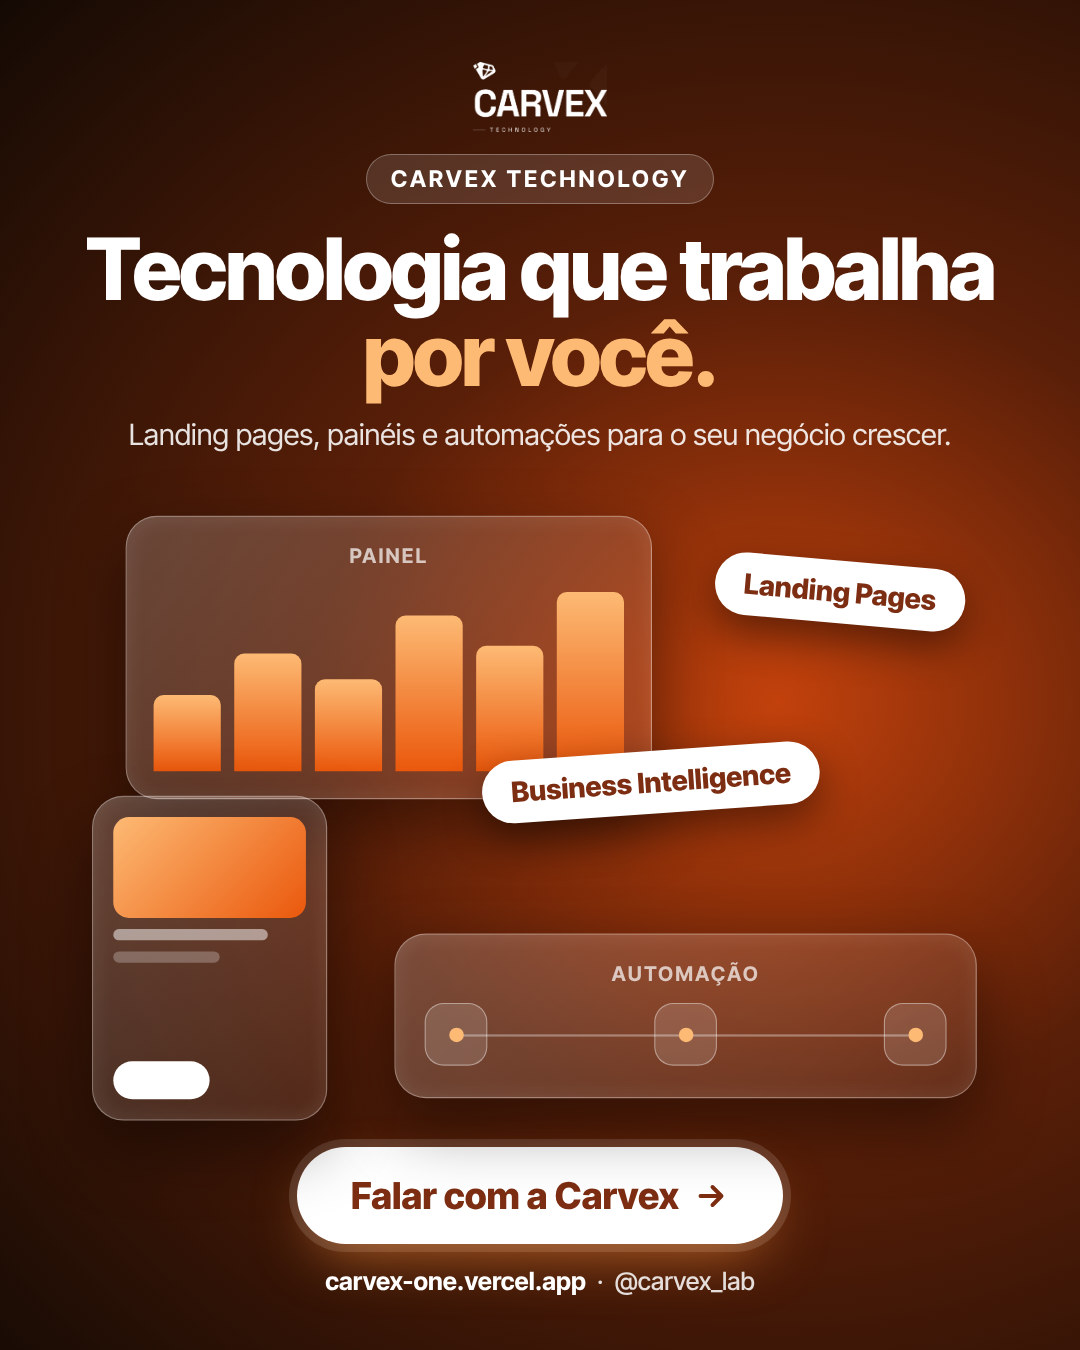
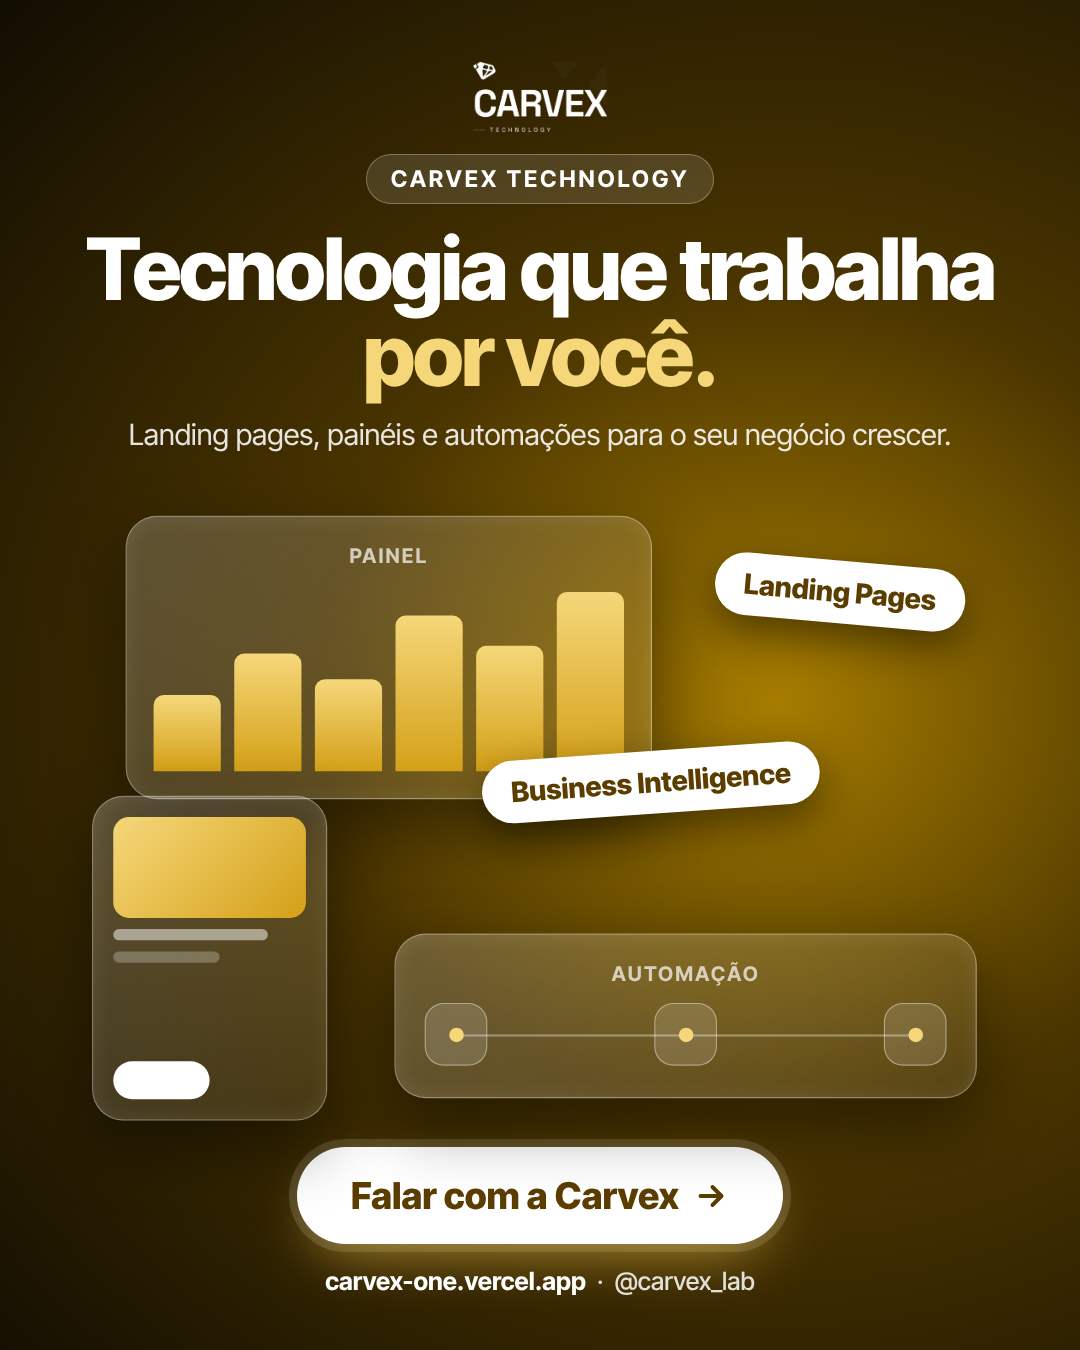
Recolor Site Oficial ad creatives to gold
Claude-Session: https://claude.ai/code/session_01P9EpFRTcvpoEik6zmTgghH

diff --git a/arte/anuncios/anuncio-links.html b/arte/anuncios/anuncio-links.html
@@ -7,7 +7,7 @@
 <style>
 * { box-sizing: border-box; margin: 0; }
 body { font-family: "Inter Tight", system-ui, sans-serif; color: #fff; overflow: hidden; position: relative; background: radial-gradient(ellipse at 72% 52%, var(--c1) 0%, var(--c2) 42%, var(--c3) 100%); }
-body.t-oficial { --c1:#c2410c; --c2:#5a1f08; --c3:#140a04; --acc:#fdba74; --btn:#7c2d12; --soft:rgba(253,186,116,.22); --glow:rgba(251,146,60,.7); --bar1:#ea580c; --bar2:#fdba74; --ink:#7c2d12; }
+body.t-oficial { --c1:#a67c00; --c2:#4a3500; --c3:#120d02; --acc:#f5d77a; --btn:#5c3d00; --soft:rgba(245,215,122,.22); --glow:rgba(245,200,80,.7); --bar1:#d4a017; --bar2:#f5d77a; --ink:#5c3d00; }
 body.t-excels  { --c1:#0f7a3e; --c2:#06351c; --c3:#02120a; --acc:#6ee7a0; --btn:#065f2e; --soft:rgba(52,211,153,.2); --glow:rgba(52,211,153,.65); --bar1:#16a34a; --bar2:#86efac; --ink:#065f2e; }
 body.t-hotmart { --c1:#1d4fd8; --c2:#0a2c8a; --c3:#041348; --acc:#8ec5ff; --btn:#0a2c8a; --soft:rgba(142,197,255,.22); --glow:rgba(90,169,255,.7); --bar1:#1a5cff; --bar2:#8ec5ff; --ink:#0a2c8a; }
 body.sq { width:1080px; height:1080px; --k:.7; --h:72px; --pt:52px; --pb:46px; }

diff --git a/arte/anuncios/CAMPANHA.md b/arte/anuncios/CAMPANHA.md
@@ -136,7 +136,7 @@ O criativo **Kits** funciona melhor quando o público é de um segmento só. Cri
 
 # Site Oficial, Excels e Hotmart
 
-Cada criativo vem em 1:1, 4:5 e 9:16, com o mesmo padrão: `oficial-…`, `excels-…`, `hotmart-…` (por exemplo `excels-feed-4x5.png`). O Site Oficial usa o laranja do site novo, o Excels usa o verde e o Hotmart usa o azul da Carvex.
+Cada criativo vem em 1:1, 4:5 e 9:16, com o mesmo padrão: `oficial-…`, `excels-…`, `hotmart-…` (por exemplo `excels-feed-4x5.png`). O Site Oficial usa o dourado do site novo, o Excels usa o verde e o Hotmart usa o azul da Carvex.
 
 ## Site Oficial — "Tecnologia que trabalha por você."
 - **Destino:** `https://carvex-one.vercel.app/?utm_source=meta&utm_medium=paid&utm_campaign=oficial`
